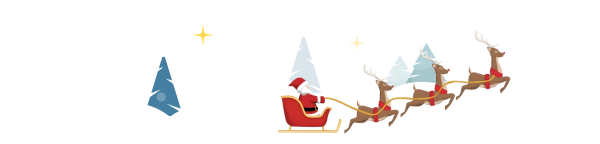
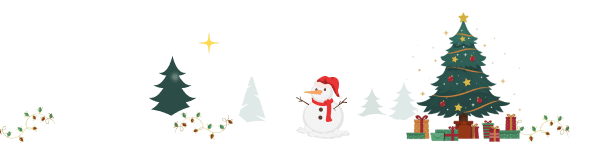
feat: add new year event and update xmas images (#5250)
* update xmas

* add new year event

diff --git a/packages/next-common/hooks/nav/useNavLogoEventBackgroundSrc.js b/packages/next-common/hooks/nav/useNavLogoEventBackgroundSrc.js
@@ -18,19 +18,33 @@ function lunarDateToSolarDate(y, m, d) {
 }
 
 /**
+ * new year
+ */
+const newYearDay = dayjs(`${nowDay.year()}-01-01`);
+const newYearEndDay = newYearDay.add(2, "day");
+const newYearEvent = {
+  name: "new-year",
+  filetype: "png",
+  startMonth: newYearDay.month() + 1,
+  startDate: newYearDay.date(),
+  endMonth: newYearEndDay.month() + 1,
+  endDate: newYearEndDay.date(),
+};
+
+/**
  * Chinese New Year
  */
-const newYearDay = lunarDateToSolarDate(nowDay.year(), 1, 1);
-// new year's eve
-const newYearsEveDay = newYearDay.add(-1, "day");
-const newYearEndDay = newYearDay.add(2, "day");
+const chineseNewYearDay = lunarDateToSolarDate(nowDay.year(), 1, 1);
+// Chinese new year's eve
+const chineseNewYearsEveDay = chineseNewYearDay.add(-1, "day");
+const chineseNewYearEndDay = chineseNewYearDay.add(2, "day");
 const chineseNewYearEvent = {
   name: "chinese-new-year",
   filetype: "png",
-  startMonth: newYearsEveDay.month() + 1,
-  startDate: newYearsEveDay.date(),
-  endMonth: newYearEndDay.month() + 1,
-  endDate: newYearEndDay.date(),
+  startMonth: chineseNewYearsEveDay.month() + 1,
+  startDate: chineseNewYearsEveDay.date(),
+  endMonth: chineseNewYearEndDay.month() + 1,
+  endDate: chineseNewYearEndDay.date(),
 };
 
 /**
@@ -139,6 +153,7 @@ const christmasEvent = {
 };
 
 const events = [
+  newYearEvent,
   chineseNewYearEvent,
   labourDayEvent,
   dragonBoatFestivalEvent,
